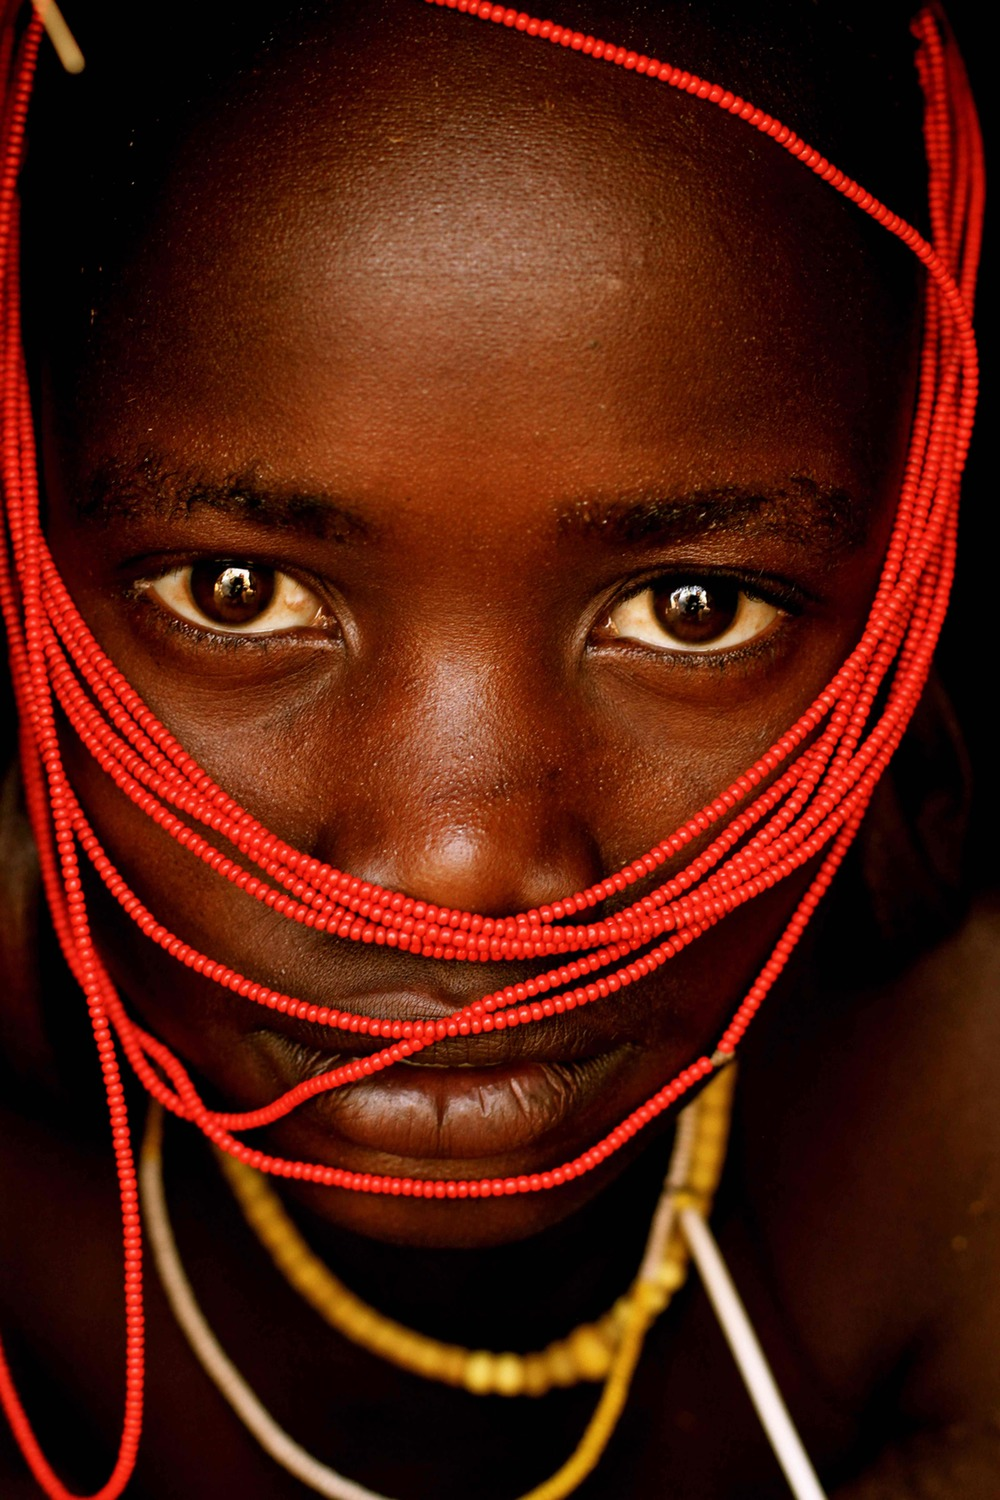
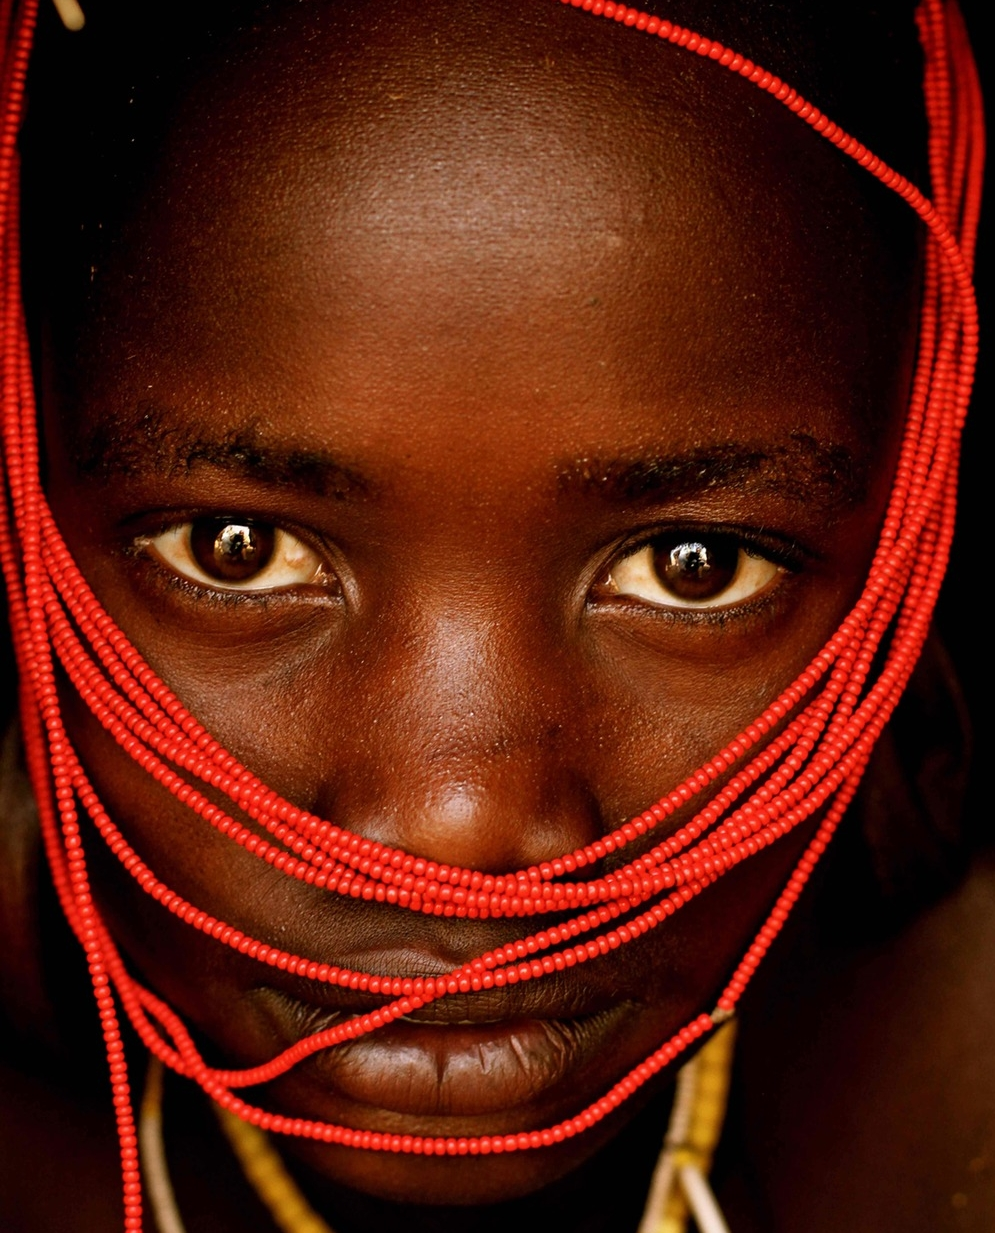
Overlap of images on article two

diff --git a/index.html b/index.html
@@ -15,7 +15,7 @@
       <div class="p-5 text-white">
         <div class="row d-flex justify-content-between align-items-center">
           <div class="col-md-2 p-0">
-            <div id="icon">
+            <div class="icon">
               <p class="m-0 pl-5">NATIONAL GEOGRAPIC</p>
             </div>
           </div>
@@ -148,30 +148,29 @@
     </section>
 
 
-    </section>
-
     <section id="article_two">
-        <div class="container">
-            <!-- First row -->
-            <div class="row mb-5">
-                <div class="col-5 d-flex">
-                    <div class="container">
-                        <img class="img-fluid" src="assets/images/suri_beads.jpg">
-                    </div>
+        <!-- First row -->
+        <div class="row mb-5">
+            <div class="col d-flex">
+                <div class="container w-50 align-self-end left-picture">
+                    <img class="img-fluid" src="assets/images/suri_beads.jpg">
                 </div>
-                <div class="col-7 mb-5">
-                    <img src="assets/images/africa.jpg" class="img-fluid">
+                <div class="container">
+                    <img src="assets/images/africa.jpg" class="img-fluid mb-5">
                 </div>
+
             </div>
-            <!-- Second row -->
-            <div class="row mb-5">
-                <div class="col-5"></div>
-                <div class="col-7">
-                    <h1 class="article_header">The world's 10 most fascinating species</h1>
-                    <p class="notes">
-                        Lorem ipsum dolor sit amet, consectetur adipiscing elit. Vestibulum lorem metus, finibus sed felis id, ornare vulputate orci. Nunc sed nunc a leo sagittis elementum in non magna. Sed dapibus metus urna, ac suscipit turpis condimentum vel.
-                    </p>
-                </div>
+        </div>
+
+
+        <!-- Second row -->
+        <div class="row mb-5">
+            <div class="col-5"></div>
+            <div class="col-7">
+                <h1 class="article_header">The world's 10 most fascinating species</h1>
+                <p class="notes">
+                    Lorem ipsum dolor sit amet, consectetur adipiscing elit. Vestibulum lorem metus, finibus sed felis id, ornare vulputate orci. Nunc sed nunc a leo sagittis elementum in non magna. Sed dapibus metus urna, ac suscipit turpis condimentum vel.
+                </p>
             </div>
         </div>
     </section>
@@ -193,7 +192,7 @@
     <footer>
       <div class="row justify-content-center align-items-start p-5 text-white">
         <div class="col-md-3 p-0">
-          <div id="icon">
+          <div class="icon">
             <p class="m-0 pl-5">NATIONAL GEOGRAPIC</p>
           </div>
         </div>

diff --git a/assets/stylesheets/main.css b/assets/stylesheets/main.css
@@ -1,3 +1,25 @@
+/* Globals */
+
+h6 {
+    color: #ffcc00;
+}
+
+h5 {
+    font-size: 1.1rem;
+}
+
+p, a {
+    font-size: 0.75rem;
+}
+
+nav {
+    z-index: 10;
+}
+
+/* End of Globals */
+
+/* Cover */
+
 #cover {
   background: url(../images/cover.jpg) no-repeat center center fixed;
   -webkit-background-size: cover;
@@ -7,7 +29,7 @@
   height: 100vh;
 }
 
-#icon {
+.icon {
   border: 3px;
   border-color: #ffcc00;
   border-style: solid;
@@ -24,21 +46,7 @@
   height: 100%;
 }
 
-h6 {
-  color: #ffcc00;
-}
 
-h5 {
-  font-size: 1.1rem;
-}
-
-p, a {
-  font-size: 0.75rem;
-}
-
-nav {
-  z-index: 10;
-}
 
 .nav-item {
   color: white;
@@ -92,6 +100,12 @@ nav {
 .image {
     width: 100%;
     height: 75%;
+}
+
+.left-picture {
+    position: relative;
+    left: 15%;
+    z-index: 100;
 }
 /* End of article */
 
